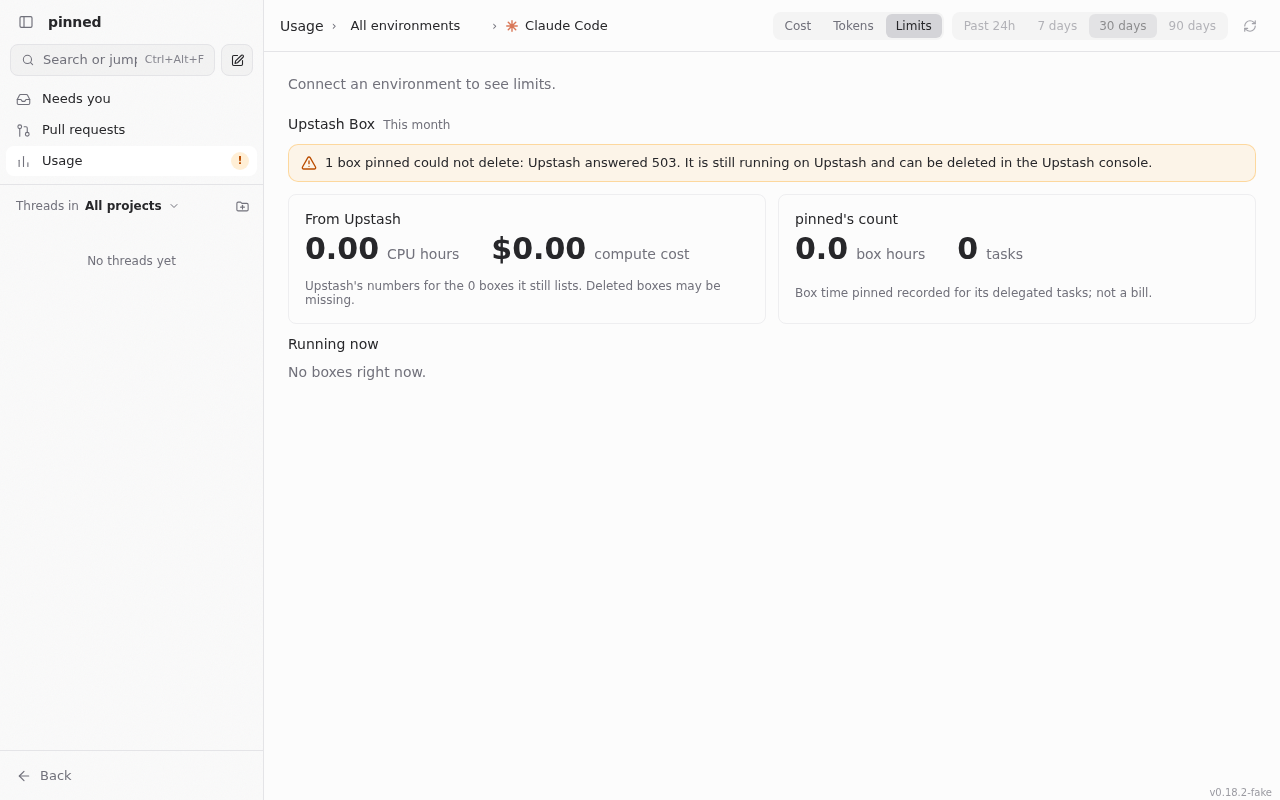
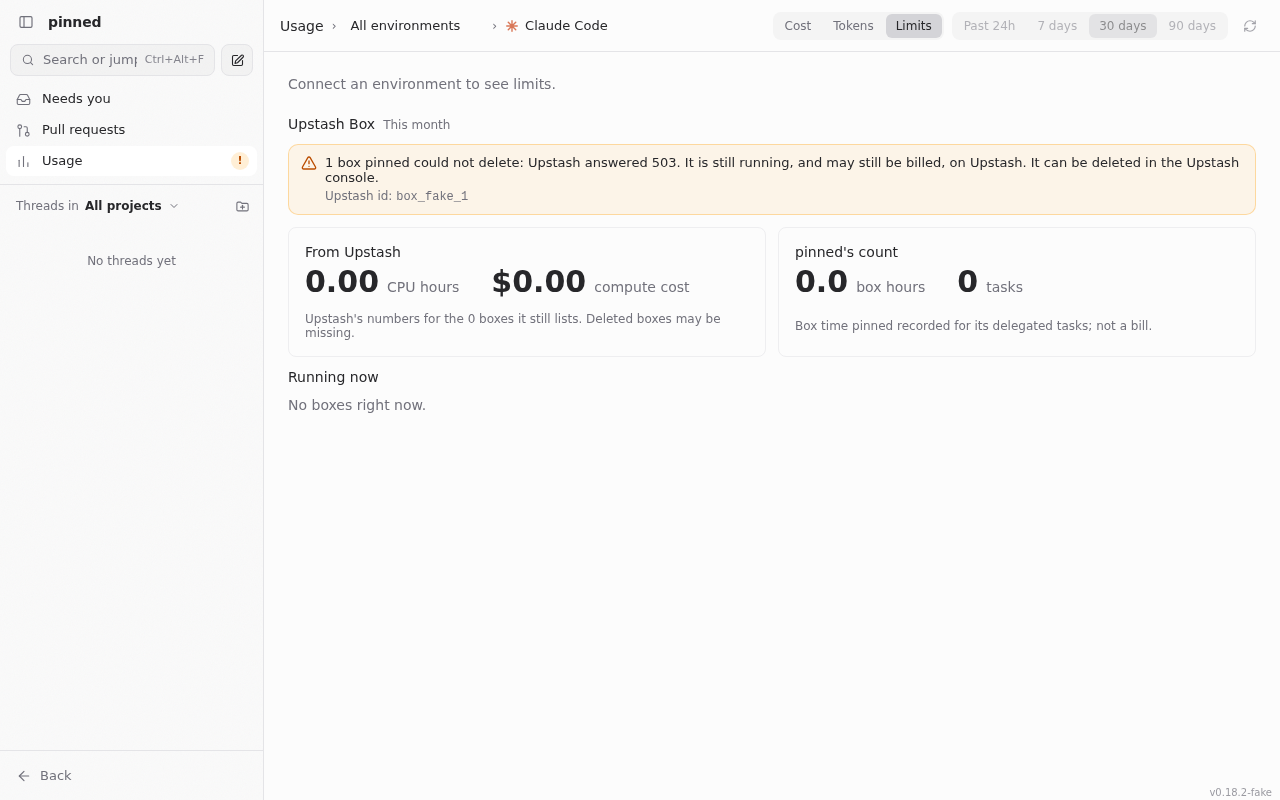
proof for #260 round 2: ids and labels in the notices, the new wording, and a not-connected shot (fake data only)

diff --git a/proof/260/shots.js b/proof/260/shots.js
@@ -1,5 +1,5 @@
 // The real ui/ in headless Chromium against a fake hub: the WebSocket is routed, and `stuck_boxes`
-// and `box_usage` answer fixed fake data. No real hub, no Upstash. Fake ids and text only.
+// and `box_usage` answer fixed fake data (ids like box_fake_1). No real hub, no Upstash. Fake ids and text only.
 const http = require("http");
 const fs = require("fs");
 const path = require("path");
@@ -20,42 +20,35 @@ const server = http.createServer((req, res) => {
 
 const cut = (text) => `${text.slice(0, 299)}…`;
 const LONG = cut("Upstash answered 503: fake-upstream-detail ".repeat(20));
+const known = (n, why, extra = {}) => ({ id: `fake-row-${n}`, why, upstash: `box_fake_${n}`, ...extra });
+const unconfirmed = (n, why) => ({ id: `fake-row-u${n}`, why, unconfirmed: true, label: `p:fake-row-u${n}` });
 const SCENARIOS = {
-  "known-one": [{ id: "box_fake_known_1", why: "Upstash answered 503" }],
-  "unconfirmed-one": [{ id: "box_fake_unconfirmed_1", why: "Upstash is not connected", unconfirmed: true }],
+  "known-one": [known(1, "Upstash answered 503")],
+  "unconfirmed-one": [unconfirmed(1, "Upstash answered 502")],
   "known-several": [
-    { id: "box_fake_known_1", why: "Upstash answered 503" },
-    { id: "box_fake_known_2", why: "Upstash answered 503" },
-    { id: "box_fake_known_3", why: "Upstash Box refused the key: Invalid box API key" },
+    known(1, "Upstash answered 503"),
+    known(2, "Upstash answered 503"),
+    known(3, "Upstash Box refused the key: Invalid box API key"),
+    known(4, "Upstash answered 503"),
+    known(5, "Upstash answered 503"),
   ],
-  "unconfirmed-several": [
-    { id: "box_fake_unconfirmed_1", why: "Upstash is not connected", unconfirmed: true },
-    { id: "box_fake_unconfirmed_2", why: "Upstash is not connected", unconfirmed: true },
-    { id: "box_fake_unconfirmed_3", why: "Upstash answered 502", unconfirmed: true },
-  ],
-  "both-kinds": [
-    { id: "box_fake_known_1", why: "Upstash answered 503" },
-    { id: "box_fake_known_2", why: "Upstash answered 503" },
-    { id: "box_fake_unconfirmed_1", why: "Upstash is not connected", unconfirmed: true },
-    { id: "box_fake_unconfirmed_2", why: "Upstash answered 502", unconfirmed: true },
-  ],
-  "long-reason": [{ id: "box_fake_known_1", why: LONG }],
+  "unconfirmed-several": [unconfirmed(1, "Upstash is not connected"), unconfirmed(2, "Upstash is not connected"), unconfirmed(3, "Upstash answered 502")],
+  "both-kinds": [known(1, "Upstash answered 503"), known(2, "Upstash answered 503"), unconfirmed(1, "Upstash is not connected"), unconfirmed(2, "Upstash answered 502")],
+  "long-reason": [known(1, LONG)],
+  // What the real hub answers with no Upstash key (boxes.rs: BoxUsage { stuck, ..default }): connected false, so no "From Upstash" card.
+  "not-connected": { connected: false, stuck: [known(1, "Upstash is not connected"), known(2, "Upstash is not connected"), unconfirmed(1, "Upstash is not connected")] },
 };
 
-const usage = (stuck) => ({
-  connected: true,
-  error: null,
-  boxes: [],
-  upstash: { cpu_hours: 0.0, compute_usd: 0.0, boxes: 0 },
-  pinned: { box_hours: 0.0, tasks: 0, since: 0 },
-  stuck,
-});
+const usage = (stuck, connected = true) => (connected
+  ? { connected, error: null, boxes: [], upstash: { cpu_hours: 0.0, compute_usd: 0.0, boxes: 0 }, pinned: { box_hours: 0.0, tasks: 0, since: 0 }, stuck }
+  : { connected, boxes: [], upstash: { cpu_hours: 0.0, compute_usd: 0.0, boxes: 0 }, pinned: { box_hours: 0.0, tasks: 0, since: 0 }, stuck });
 
 (async () => {
   await new Promise((r) => server.listen(0, "127.0.0.1", r));
   const base = `http://127.0.0.1:${server.address().port}`;
   const browser = await chromium.launch({ executablePath: "/usr/bin/chromium", args: ["--no-sandbox"] });
-  for (const [name, stuck] of Object.entries(SCENARIOS)) {
+  for (const [name, scenario] of Object.entries(SCENARIOS)) {
+    const { stuck, connected } = Array.isArray(scenario) ? { stuck: scenario, connected: true } : scenario;
     const context = await browser.newContext({ viewport: { width: 1280, height: 800 } });
     await context.addInitScript(() => localStorage.setItem("hub-token", "fake-token-0000"));
     const page = await context.newPage();
@@ -67,7 +60,7 @@ const usage = (stuck) => ({
         if (frame.type === "auth") return ws.send(JSON.stringify({ type: "hello", account: { id: "acct-fake-0001", email: "fake-account" }, machines: [], tabs: {} }));
         if (frame.type !== "hub") return;
         asked.push(frame.call.cmd);
-        const answer = { stuck_boxes: stuck, box_usage: usage(stuck), get_settings: { connectors: [], upstash: null } }[frame.call.cmd];
+        const answer = { stuck_boxes: stuck, box_usage: usage(stuck, connected), get_settings: { connectors: [], upstash: null } }[frame.call.cmd];
         ws.send(JSON.stringify(answer === undefined ? { type: "reply", id: frame.id, err: "fake hub: not answered" } : { type: "reply", id: frame.id, ok: answer }));
       });
     });
@@ -75,6 +68,7 @@ const usage = (stuck) => ({
     await page.waitForSelector('[data-nav="usage"] .stuck-box:not([hidden])', { timeout: 15000 });
     await page.click('[data-nav="usage"]');
     await page.waitForSelector(".box-usage .limit-notices", { timeout: 15000 });
+    if (!connected) await page.waitForSelector(".box-usage .limit-notices ~ .muted.note, .box-usage .muted.note", { timeout: 15000 });
     await page.waitForFunction(() => document.querySelector(".box-usage")?.getAttribute("aria-busy") === "false");
     await page.screenshot({ path: path.join(OUT, `${name}.png`) });
     const text = await page.locator(".box-usage .limit-notices").allInnerTexts();
